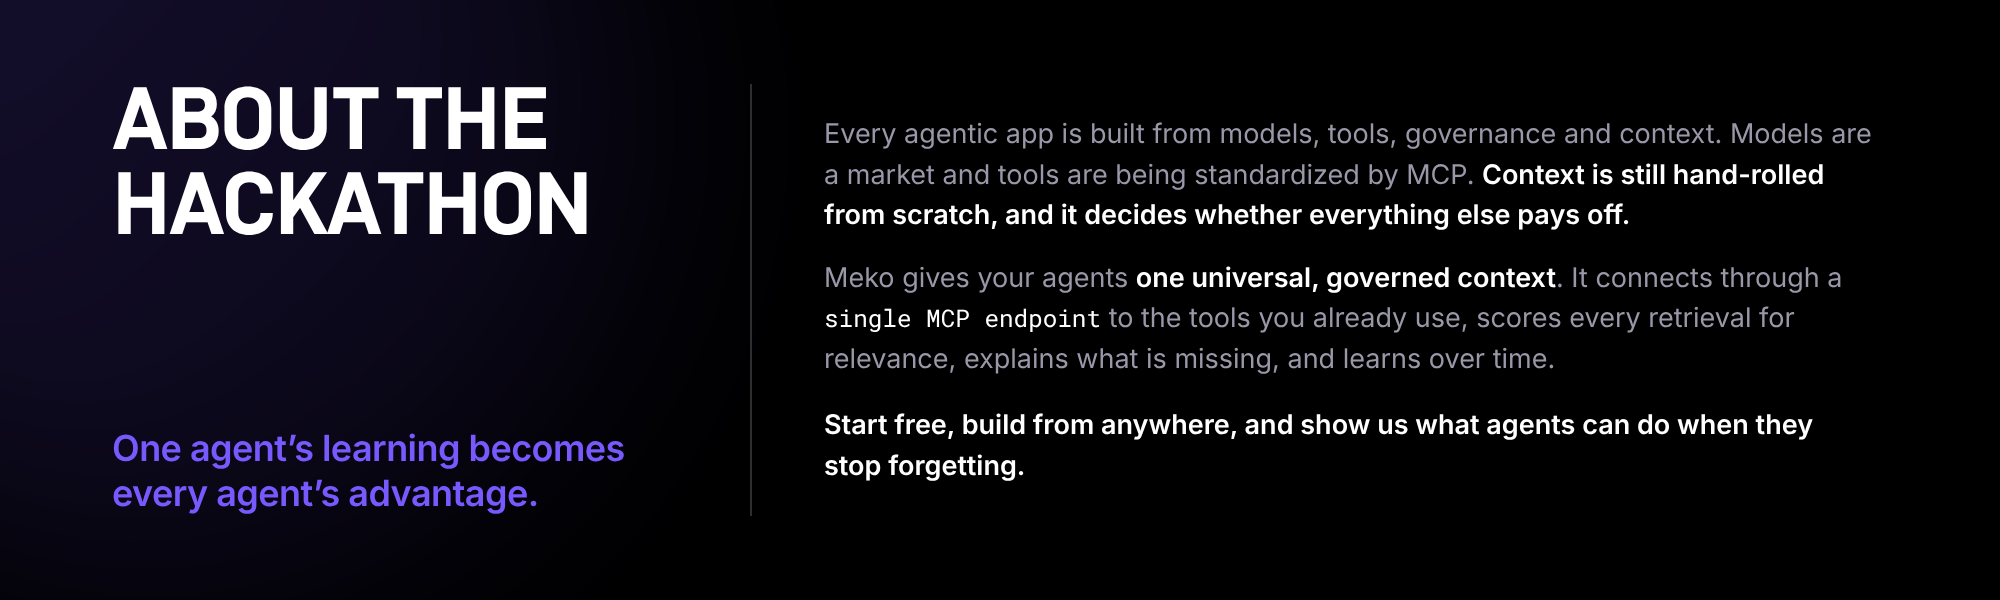
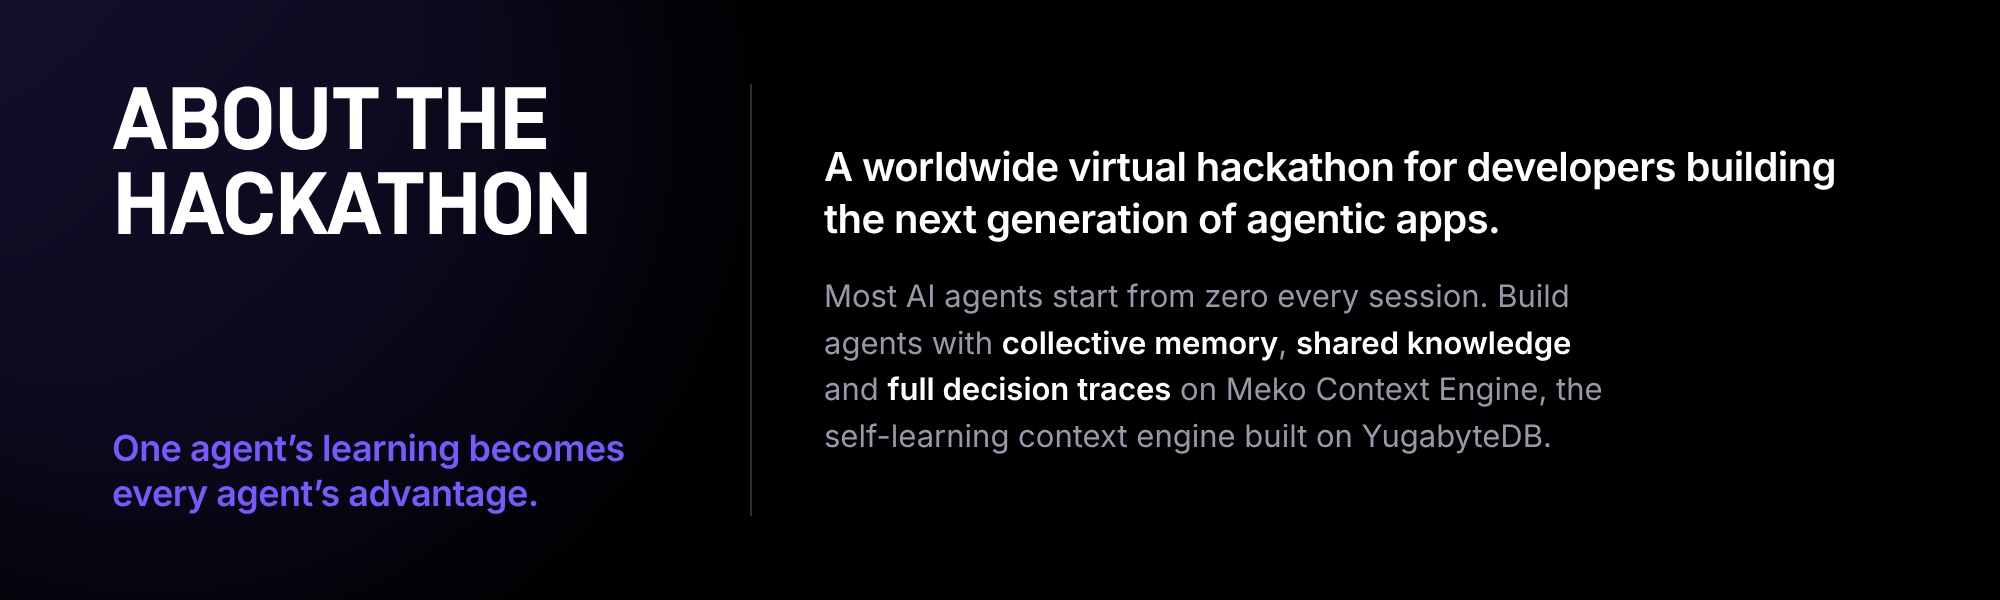
Update About the hackathon image copy
Claude-Session: https://claude.ai/code/session_011WvSfbuXTc2R9BKwTF66Kj

Changed region(s): [[0.403, 0.45, 0.93, 0.81], [0.403, 0.21, 0.93, 0.39]]

diff --git a/banners/about-hackathon-2000x600.html b/banners/about-hackathon-2000x600.html
@@ -30,8 +30,9 @@ h1{margin:0;font-family:'Bloka',var(--sans);font-weight:700;font-size:92px;line-
 .tagline{margin:auto 0 0;font-size:36px;line-height:1.25;font-weight:600;letter-spacing:-.015em;color:var(--purple);text-wrap:balance}
 .m{font-family:var(--mono);font-size:.9em;color:var(--white)}
 .copy{position:relative;padding-left:72px;display:flex;flex-direction:column;justify-content:center}
-.copy p{margin:0;font-size:27px;line-height:1.5;color:var(--muted);text-wrap:pretty}
-.copy p + p{margin-top:22px}
+.copy p{margin:0;font-size:31px;line-height:1.5;color:var(--muted);text-wrap:pretty}
+.copy p + p{margin-top:28px}
+.copy .lede{font-size:40px;line-height:1.3;font-weight:600;letter-spacing:-.015em;color:var(--white)}
 .copy b{font-weight:600;color:var(--white)}
 .link{margin-top:26px !important;font-size:27px;font-weight:600;color:var(--white) !important}
 </style>
@@ -43,9 +44,8 @@ h1{margin:0;font-family:'Bloka',var(--sans);font-weight:700;font-size:92px;line-
     <p class="tagline">One agent’s learning becomes every agent’s advantage.</p>
   </div>
   <div class="copy">
-    <p>Every agentic app is built from models, tools, governance and context. Models are a market and tools are being standardized by MCP. <b>Context is still hand-rolled from scratch, and it decides whether everything else pays off.</b></p>
-    <p>Meko gives your agents <b>one universal, governed context</b>. It connects through a <span class="m">single MCP endpoint</span> to the tools you already use, scores every retrieval for relevance, explains what is missing, and learns over time.</p>
-    <p class="link">Start free, build from anywhere, and show us what agents can do when they stop forgetting.</p>
+    <p class="lede">A worldwide virtual hackathon for developers building the next generation of agentic apps.</p>
+    <p style="text-wrap:balance">Most AI agents start from zero every session. Build agents with <b>collective memory</b>, <b>shared knowledge</b> and <b>full decision traces</b> on <span style="white-space:nowrap">Meko Context Engine</span>, the self-learning context engine built on YugabyteDB.</p>
   </div>
 </section>
 </body>
